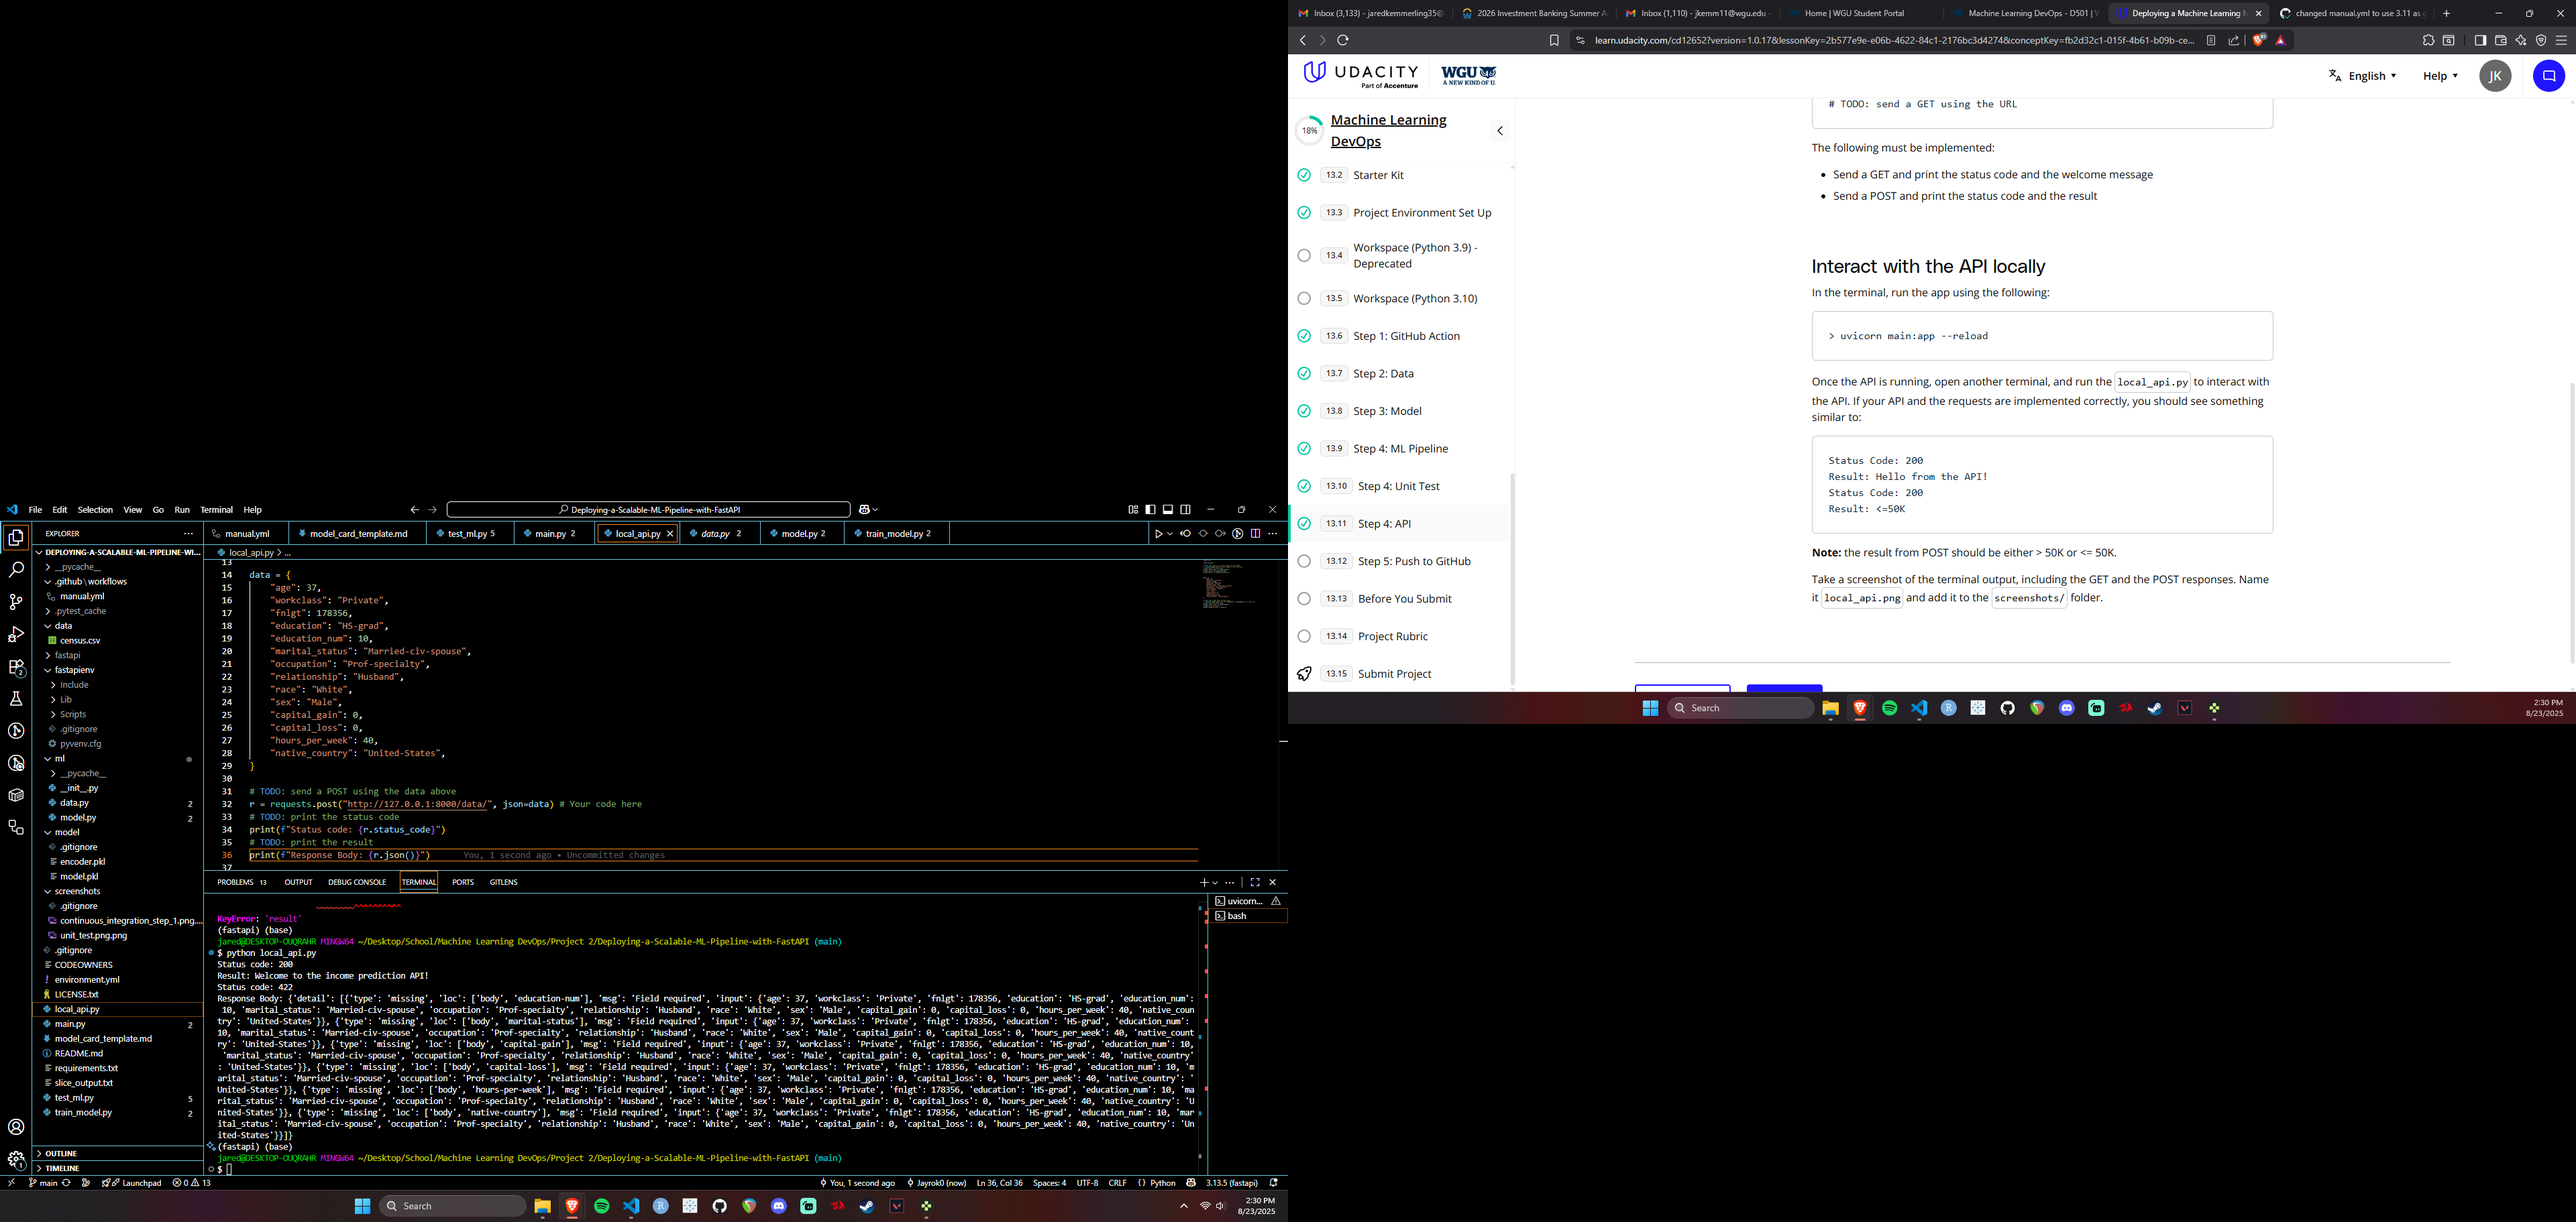
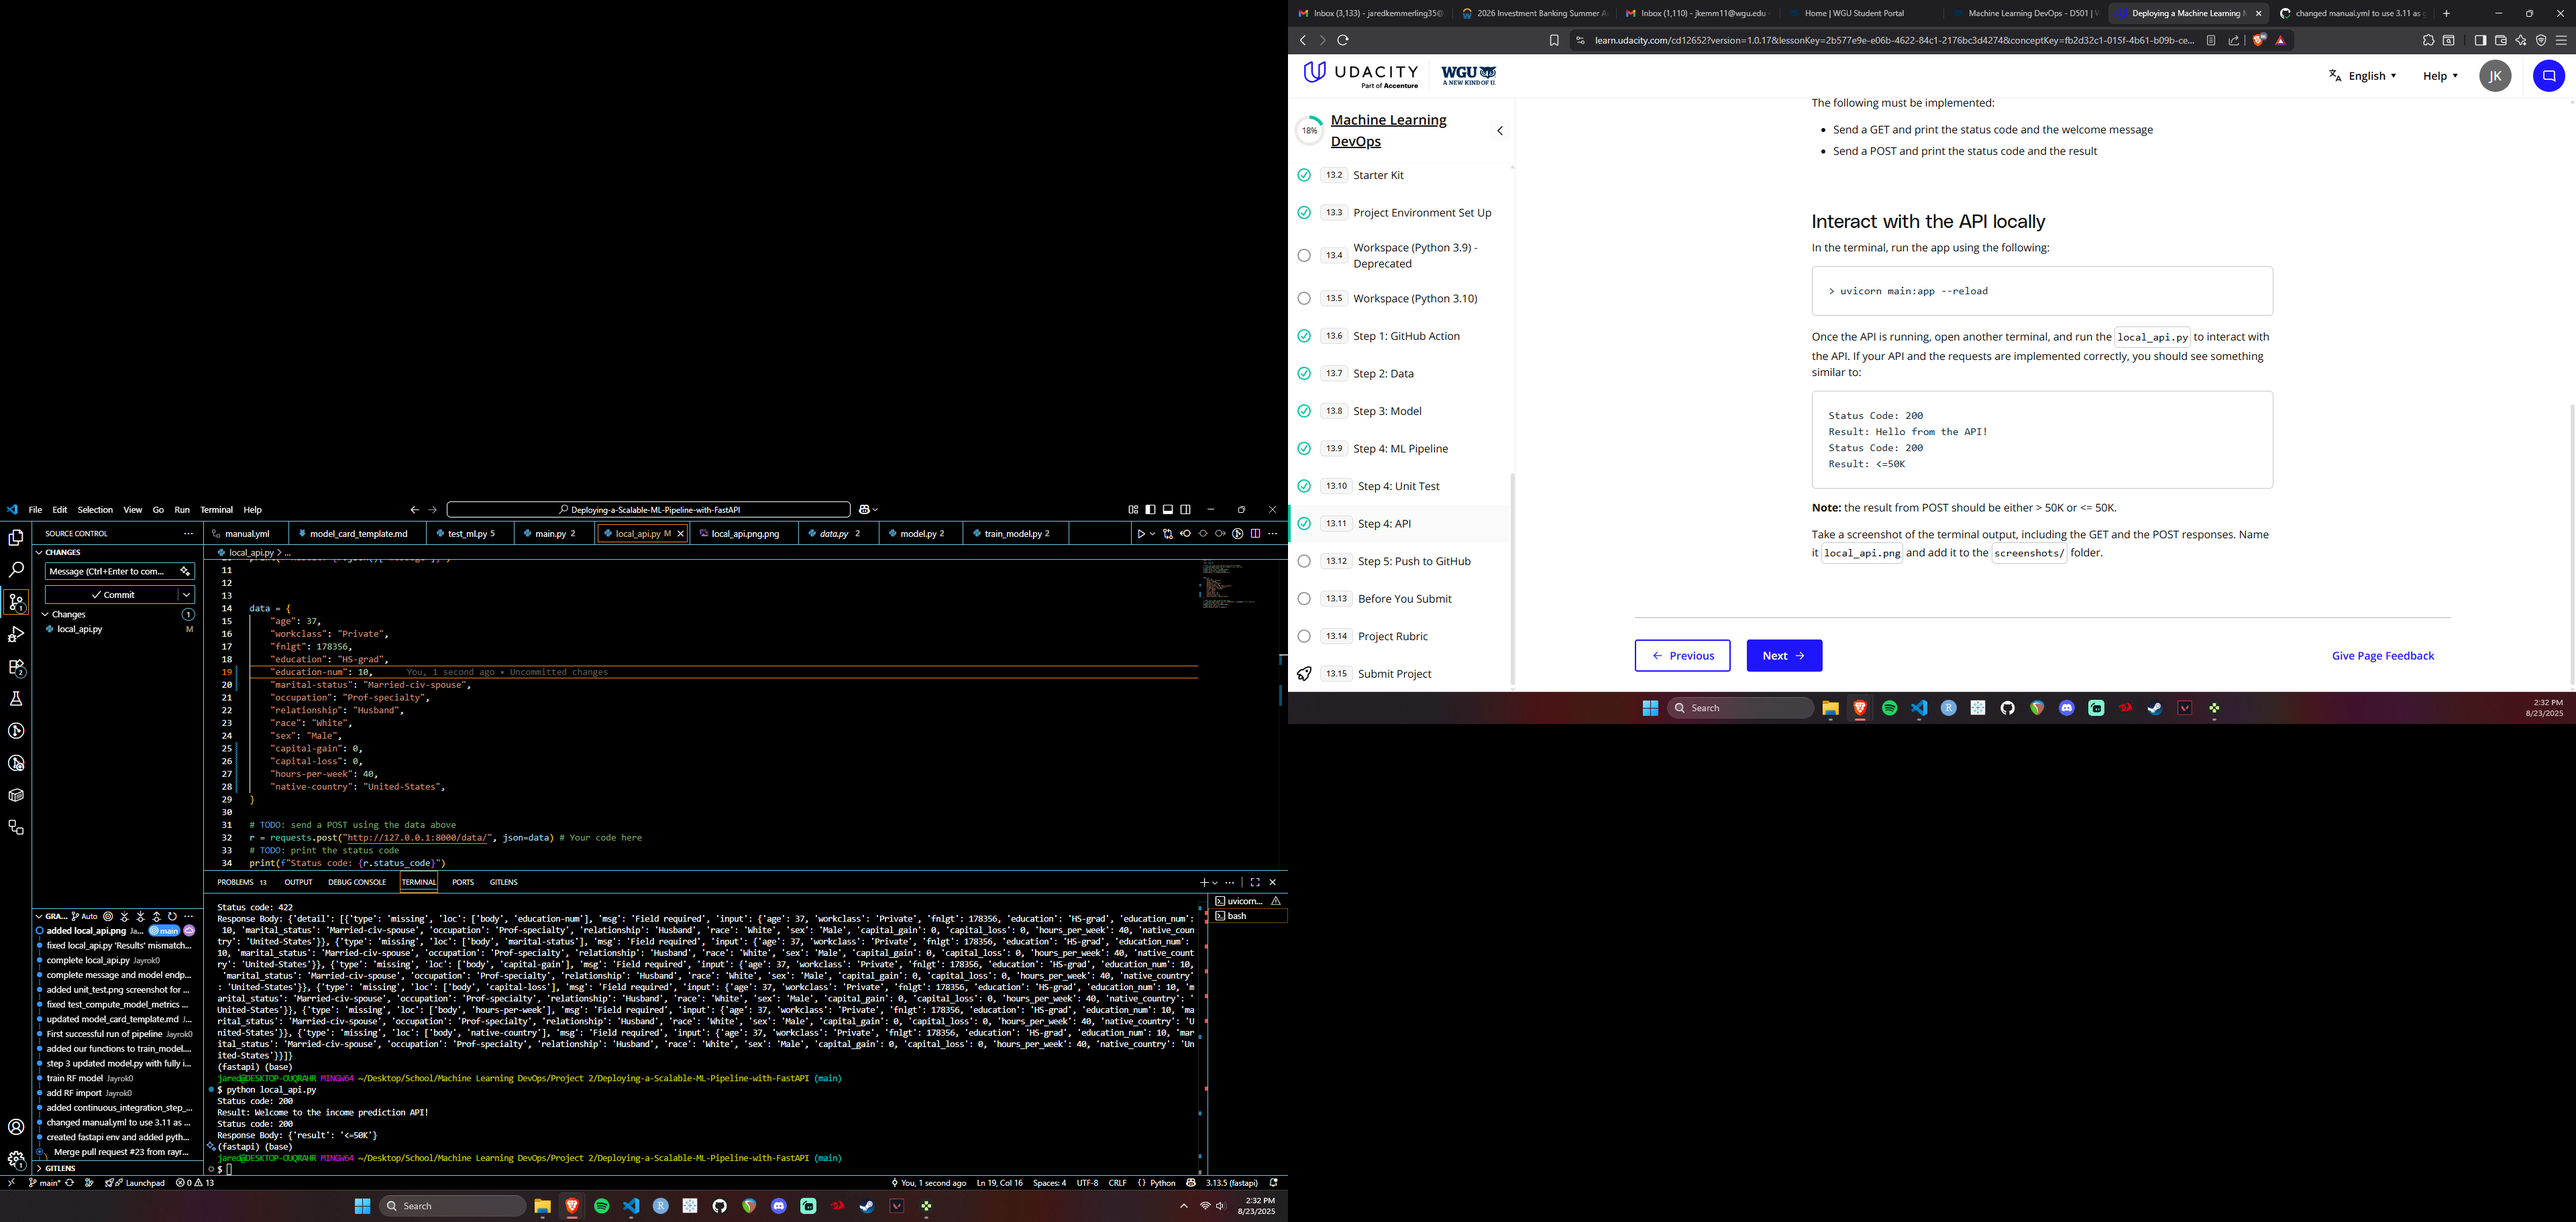
fixed local api code 422 issue and added final local_api.png screenshot

diff --git a/local_api.py b/local_api.py
@@ -16,16 +16,16 @@ data = {
     "workclass": "Private",
     "fnlgt": 178356,
     "education": "HS-grad",
-    "education_num": 10,
-    "marital_status": "Married-civ-spouse",
+    "education-num": 10,
+    "marital-status": "Married-civ-spouse",
     "occupation": "Prof-specialty",
     "relationship": "Husband",
     "race": "White",
     "sex": "Male",
-    "capital_gain": 0,
-    "capital_loss": 0,
-    "hours_per_week": 40,
-    "native_country": "United-States",
+    "capital-gain": 0,
+    "capital-loss": 0,
+    "hours-per-week": 40,
+    "native-country": "United-States",
 }
 
 # TODO: send a POST using the data above
